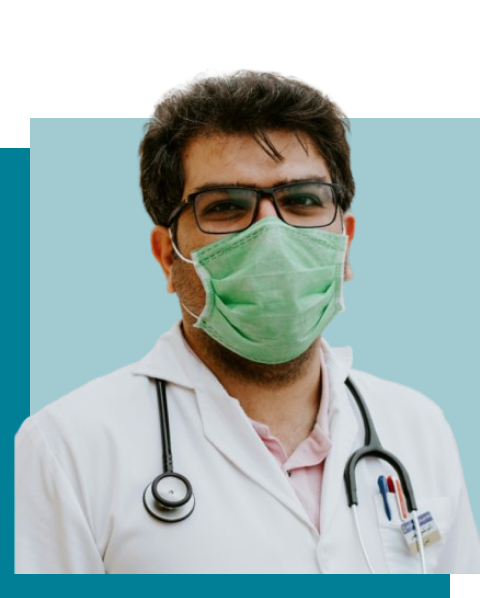
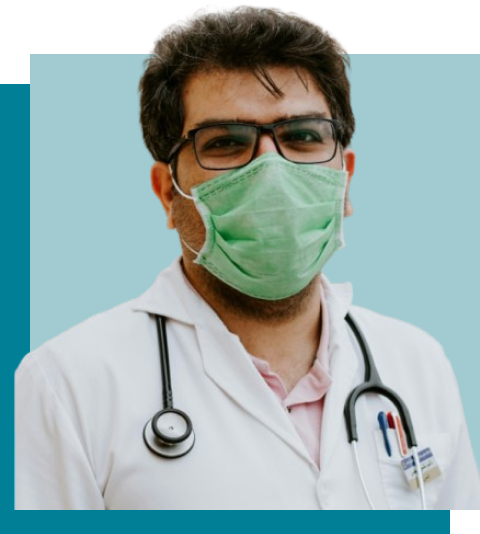
fix: positioning adjustment in the home solutions section

diff --git a/src/components/home/soluctions/styles.css b/src/components/home/soluctions/styles.css
@@ -1,13 +1,13 @@
 .container--system{
     display: flex;
-    padding: 40px 80px 48px 80px;
+    padding: 80px 80px 80px 80px;
     justify-content: center;
     align-items: center;
     gap: 40px;
     background: var(--azul-claro);
 }
 
-.right{
+.solutions-right{
     display: flex;
     flex-direction: column;
     gap: 70px;
@@ -16,7 +16,6 @@
 .start{
     display: flex;
     flex-direction: column;
-    gap: 20px;
 }
 
 .title{

diff --git a/src/components/home/soluctions/index.tsx b/src/components/home/soluctions/index.tsx
@@ -12,7 +12,7 @@ const Soluctions = () => {
     return (
         <div className="container--system">
             <img src={Doc} alt="imagem doctor" className='doc' />
-            <article className="right">
+            <article className="solutions-right">
 
                 <div className="start">
                     <h3 className='title'>Soluções Ágeis</h3>
